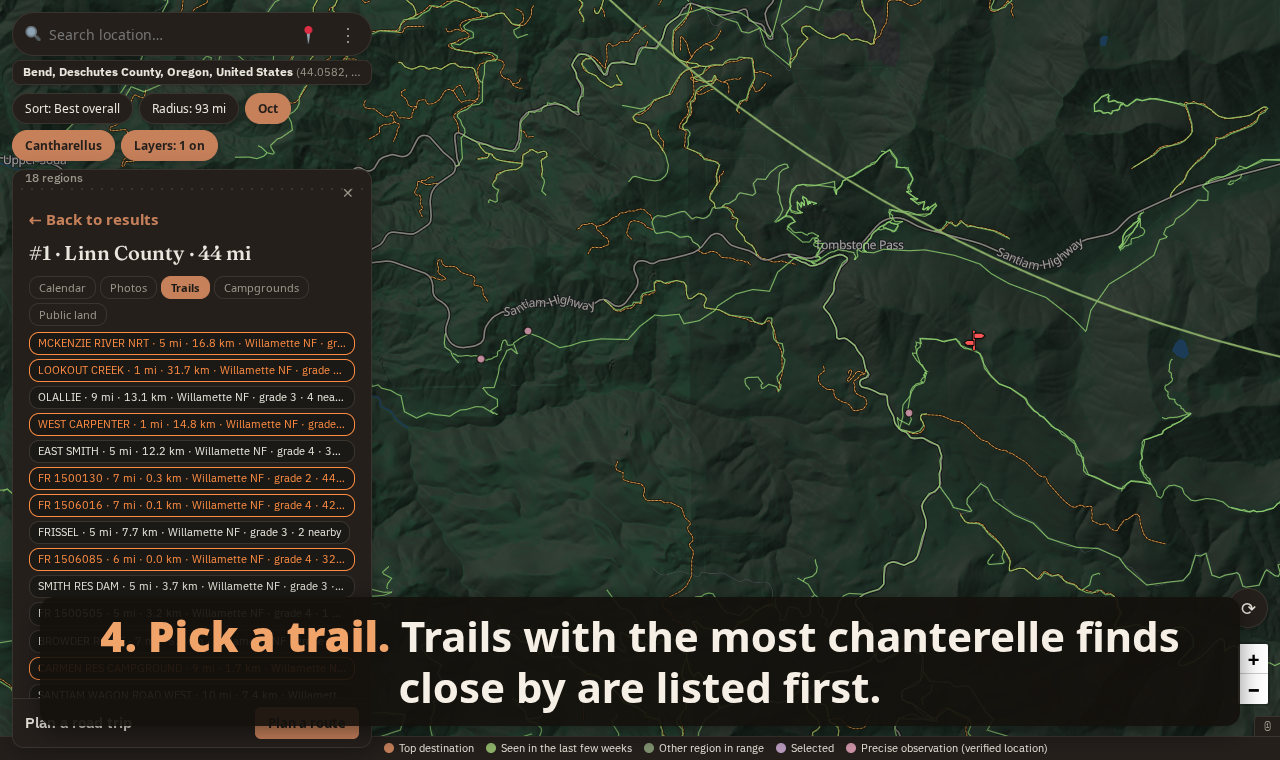
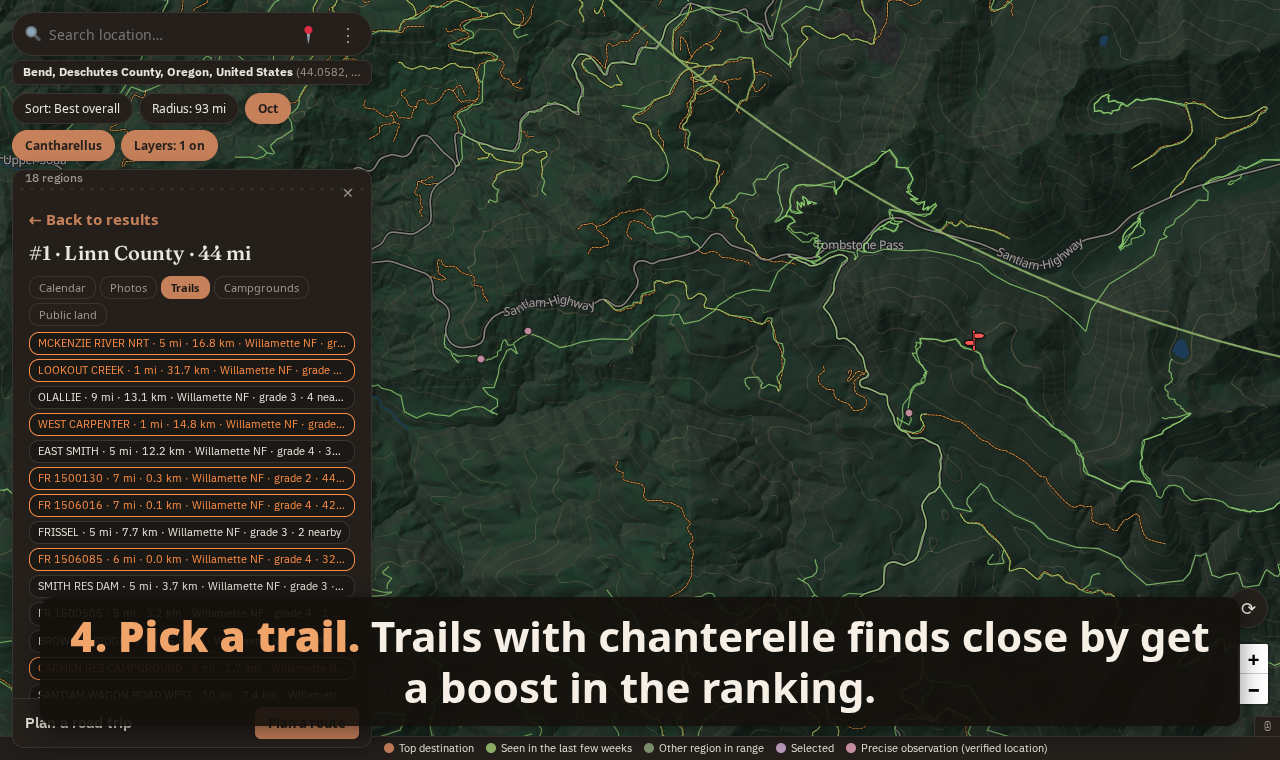
docs(tutorials): describe the ranking and trail sort accurately
Review fixes:
- Best overall is a composite score (season share, record volume,
  diversity, recency, fire and access adjustments), not a direct
  measure of how much is fruiting; say "strongest score".
- Trail relevance blends route prominence and length with a
  target-genus boost; it isn't ordered by target finds alone, and the
  "N nearby" figure counts fungi of any kind (also fixed in the
  Destination details section).
- Step 6 no longer says to click + Plan after pinning a camp - pinning
  already adds the spot, and + Plan would take it back out.
Re-recorded best-spot and track-down (GIF + Instagram).

Changed region(s): [[0.0312, 0.8171, 0.9375, 0.9382]]

diff --git a/docs/tutorials/record.py b/docs/tutorials/record.py
@@ -341,7 +341,7 @@ def best_spot(tut: Tutorial) -> None:
     card = page.locator("#panel .rank").first
     tut.point(card.locator(".why"))
     tut.caption(
-        "With <b>All genera</b> and <b>Best overall</b>, #1 is where the most is fruiting this month.",
+        "With <b>All genera</b> and <b>Best overall</b>, #1 has the strongest score for this month.",
         shot="ranked",
         hold=3.2,
     )
@@ -413,7 +413,7 @@ def track_down(tut: Tutorial) -> None:
     time.sleep(1.0)
     tut.point(chip)
     tut.caption(
-        "<b>4. Pick a trail.</b> Trails with the most chanterelle finds close by are listed first.",
+        "<b>4. Pick a trail.</b> Trails with chanterelle finds close by get a boost in the ranking.",
         shot="trails",
         hold=3.2,
     )

diff --git a/docs/tutorials/README.md b/docs/tutorials/README.md
@@ -7,7 +7,7 @@ are closest to them, and how to string several spots into a road trip.
 Six short walkthroughs, each with an animated overview and step-by-step screenshots:
 
 1. [Getting started](#1-getting-started) - set your location, pick months and genera, read the results
-2. [Find the best spot right now](#2-find-the-best-spot-right-now) - no target in mind: where is the most fruiting, and the finds behind it
+2. [Find the best spot right now](#2-find-the-best-spot-right-now) - no target in mind: the top-scoring spot, and the finds behind it
 3. [Track down a target mushroom](#3-track-down-a-target-mushroom) - from "I want chanterelles" to the trail, the camp, and directions
 4. [Destination details](#4-destination-details) - map layers, calendar, photos, trails, campgrounds, public land
 5. [Plan a road trip](#5-plan-a-road-trip) - shortlist spots, pin a campground, export the route
@@ -71,14 +71,16 @@ between *Best overall*, *Active now* (what's been seen in the last few weeks), a
 
 ## 2. Find the best spot right now
 
-No particular target? This finds where the most is fruiting near you, then shows you the actual
-iNaturalist finds behind the ranking.
+No particular target? This finds the top-scoring spot near you for your months, then shows you
+the actual iNaturalist finds behind the ranking.
 
 ![Best spot walkthrough](best-spot.gif)
 
-**1. Leave the defaults.** With **All genera** and **Sort: Best overall**, the #1 card is the
-destination with the strongest fruiting activity in your chosen months. Its first line says
-why: what's peaking there, how many records, recent rain, and the nearest trailhead.
+**1. Leave the defaults.** With **All genera** and **Sort: Best overall**, the #1 card has the
+strongest overall score for your chosen months. The score blends how much of each genus's
+season falls in those months, how many records and how many genera, how recent they are, and
+adjustments for active fire and trail/camp access. The card's first line says why: what's
+peaking there, how many records, recent rain, and the nearest trailhead.
 
 ![The top-ranked destination](img/best-spot-01-ranked.png)
 
@@ -142,9 +144,10 @@ finds only. Hover a numbered pin for the list, and zoom in to open single finds,
 
 ![One find, with Directions](img/track-down-05-find-popup.png)
 
-**4. Pick the trail.** In **Details → Trails**, trails are ranked with your target in mind:
-the ones with the most finds of that genus within 500 m come first ("N nearby"). Click one to
-draw it on the map, through the finds.
+**4. Pick the trail.** **Details → Trails** is sorted by relevance: named routes and long
+trails rank high, and trails with more finds of your target genus within 500 m get a boost.
+(The "N nearby" figure on each row counts fungi records of any kind within 500 m.) Click one
+to draw it on the map, through the finds.
 
 ![Trails ranked by nearby finds](img/track-down-06-trails.png)
 
@@ -155,8 +158,10 @@ click **📍 Use … as trip stop** so the route drives to that camp.
 
 ![Choosing a campground](img/track-down-08-camp.png)
 
-**6. Go.** Click **+ Plan** on the spot, then **Plan a route**. **Open in Google Maps** gives
-turn-by-turn directions to your camp (or **⬇ GPX** for any other maps app).
+**6. Go.** Pinning the camp already added the spot to your trip (its card now shows
+**✓ In route**), so just click **Plan a route**. Don't click **+ Plan** again; that would take
+it back out. **Open in Google Maps** gives turn-by-turn directions to your camp (or **⬇ GPX**
+for any other maps app).
 
 ![The route, ready to open in Google Maps](img/track-down-09-go.png)
 
@@ -188,8 +193,8 @@ observer's credit and a link to each record.
 ![The Photos tab](img/region-details-04-photos.png)
 
 **5. Trails.** Hiking paths, forest roads and trailheads, sorted by relevance: named routes
-and trails with the most nearby finds come first. "192 nearby" counts target-genus records
-within 500 m of the trail.
+and long trails rank high, and with a target genus selected, trails with more of its finds
+nearby get a boost. "192 nearby" counts fungi records of any kind within 500 m of the trail.
 
 ![The Trails tab](img/region-details-05-trails.png)
 
